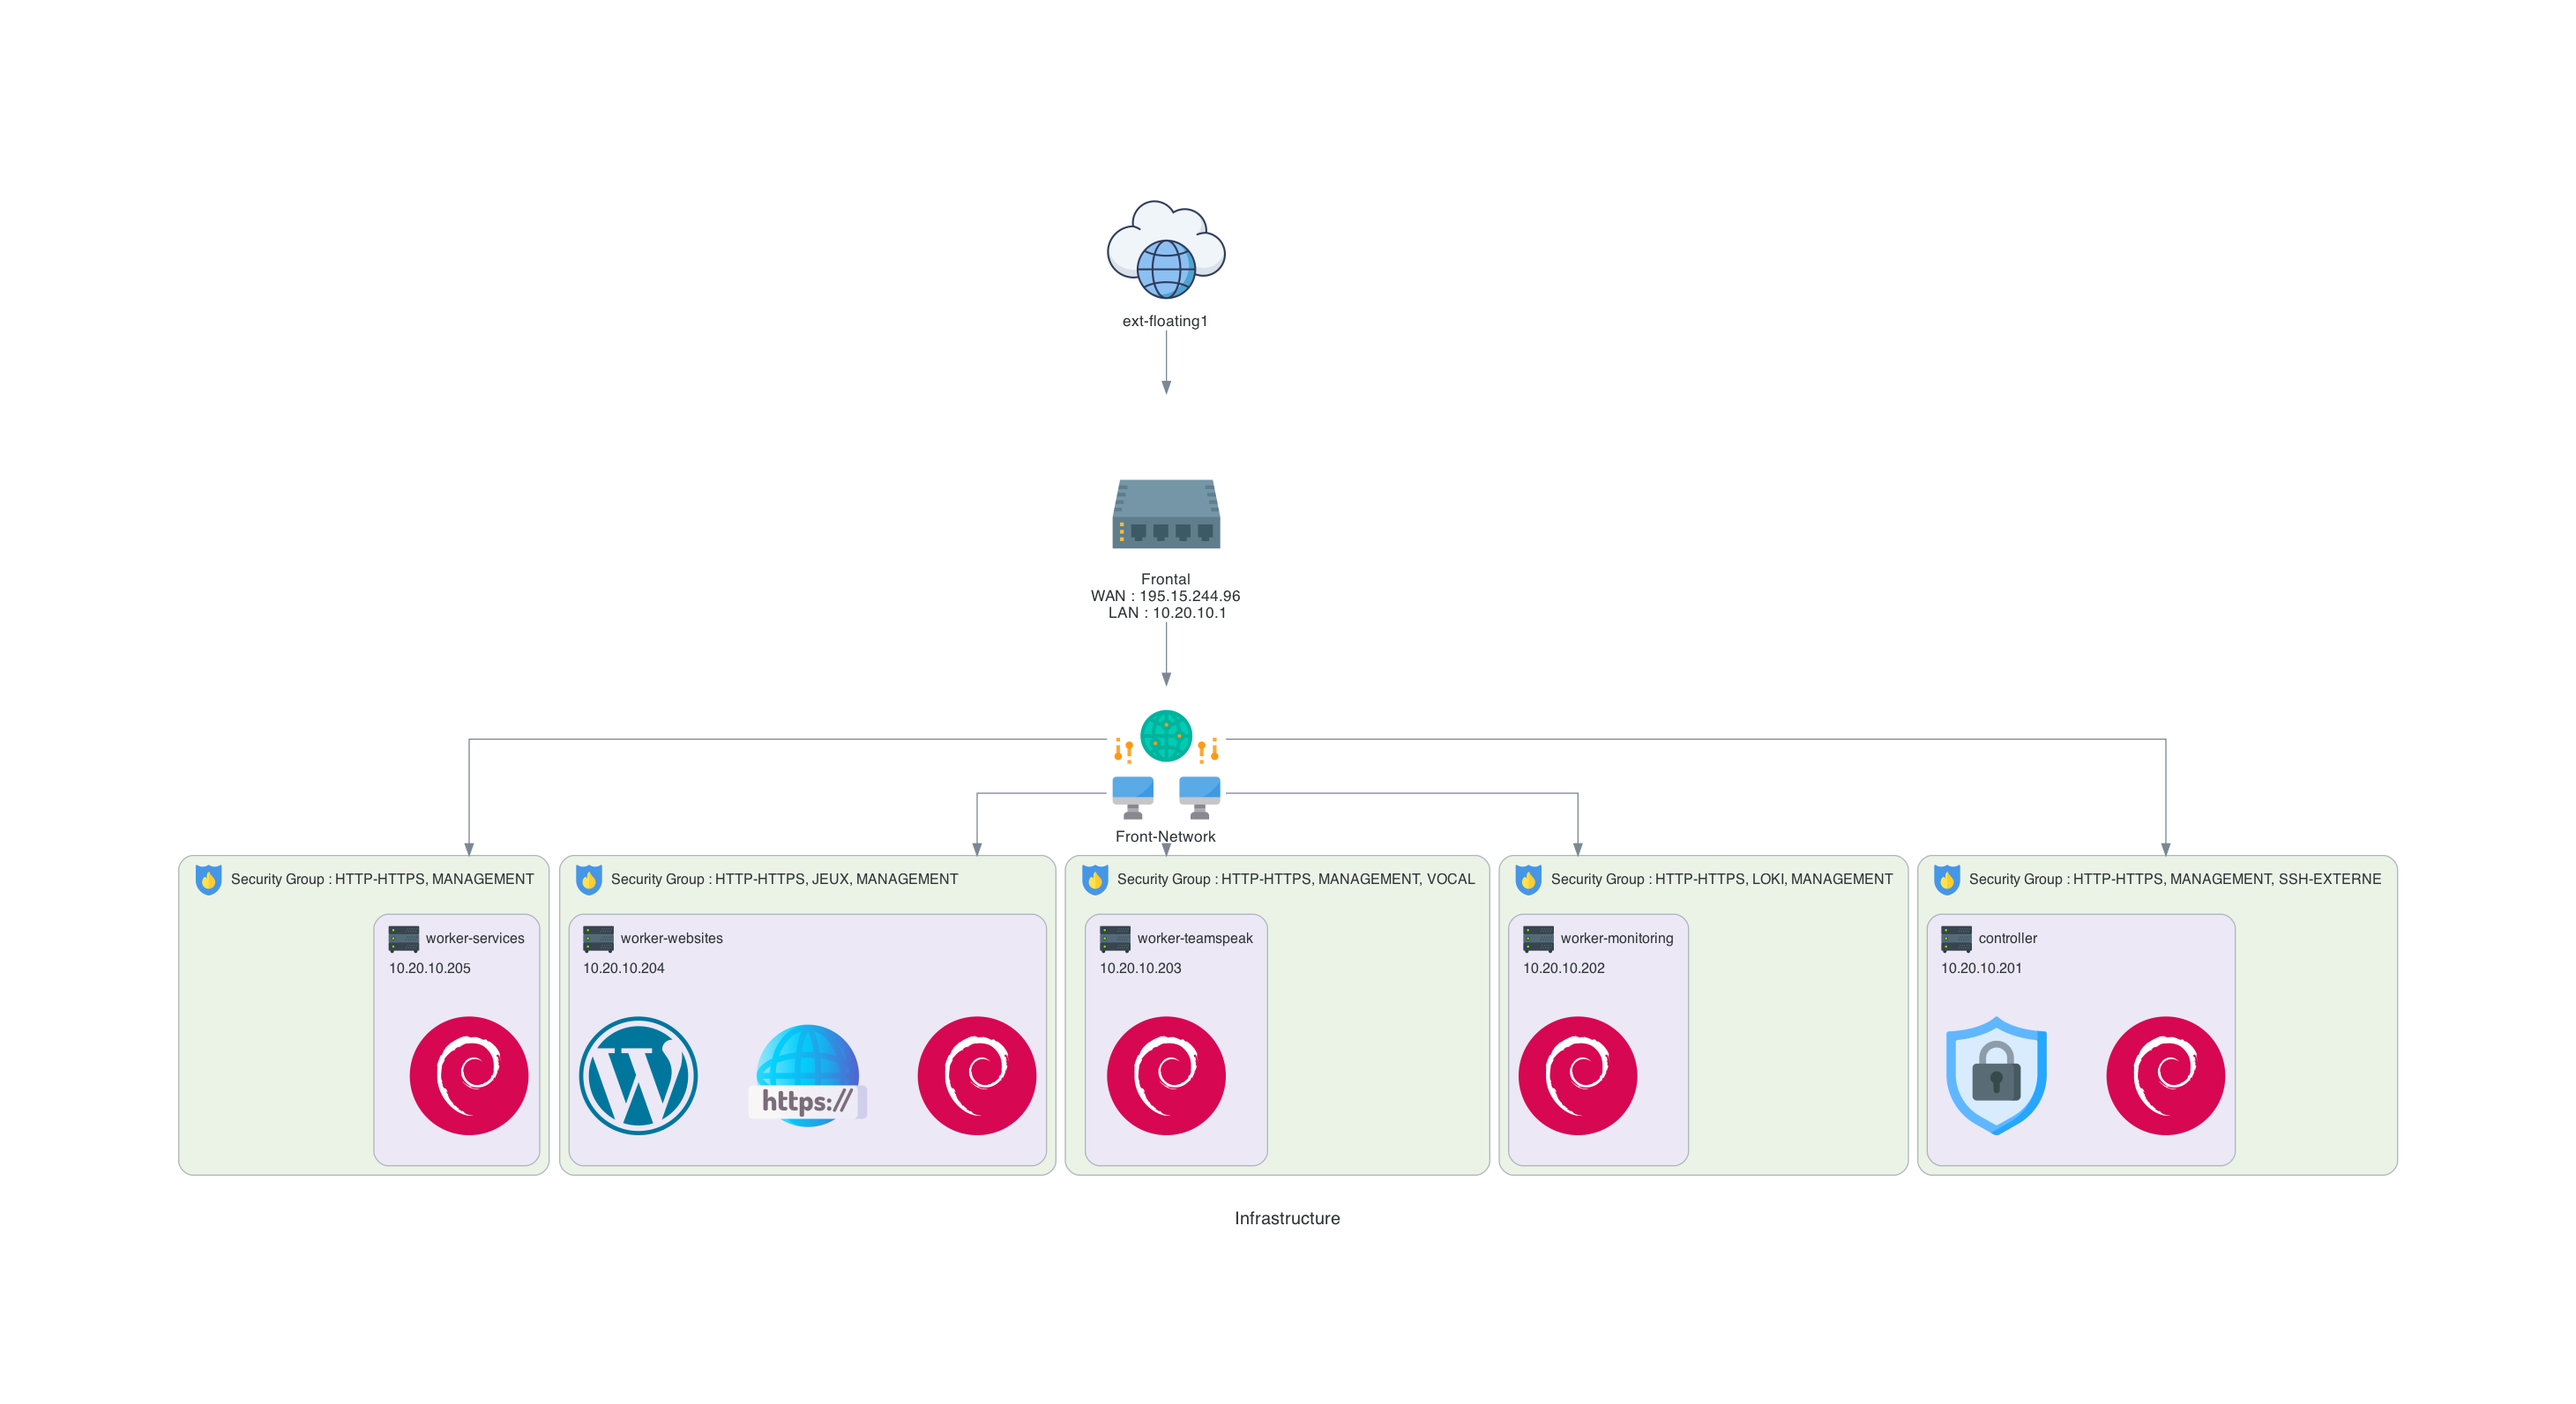
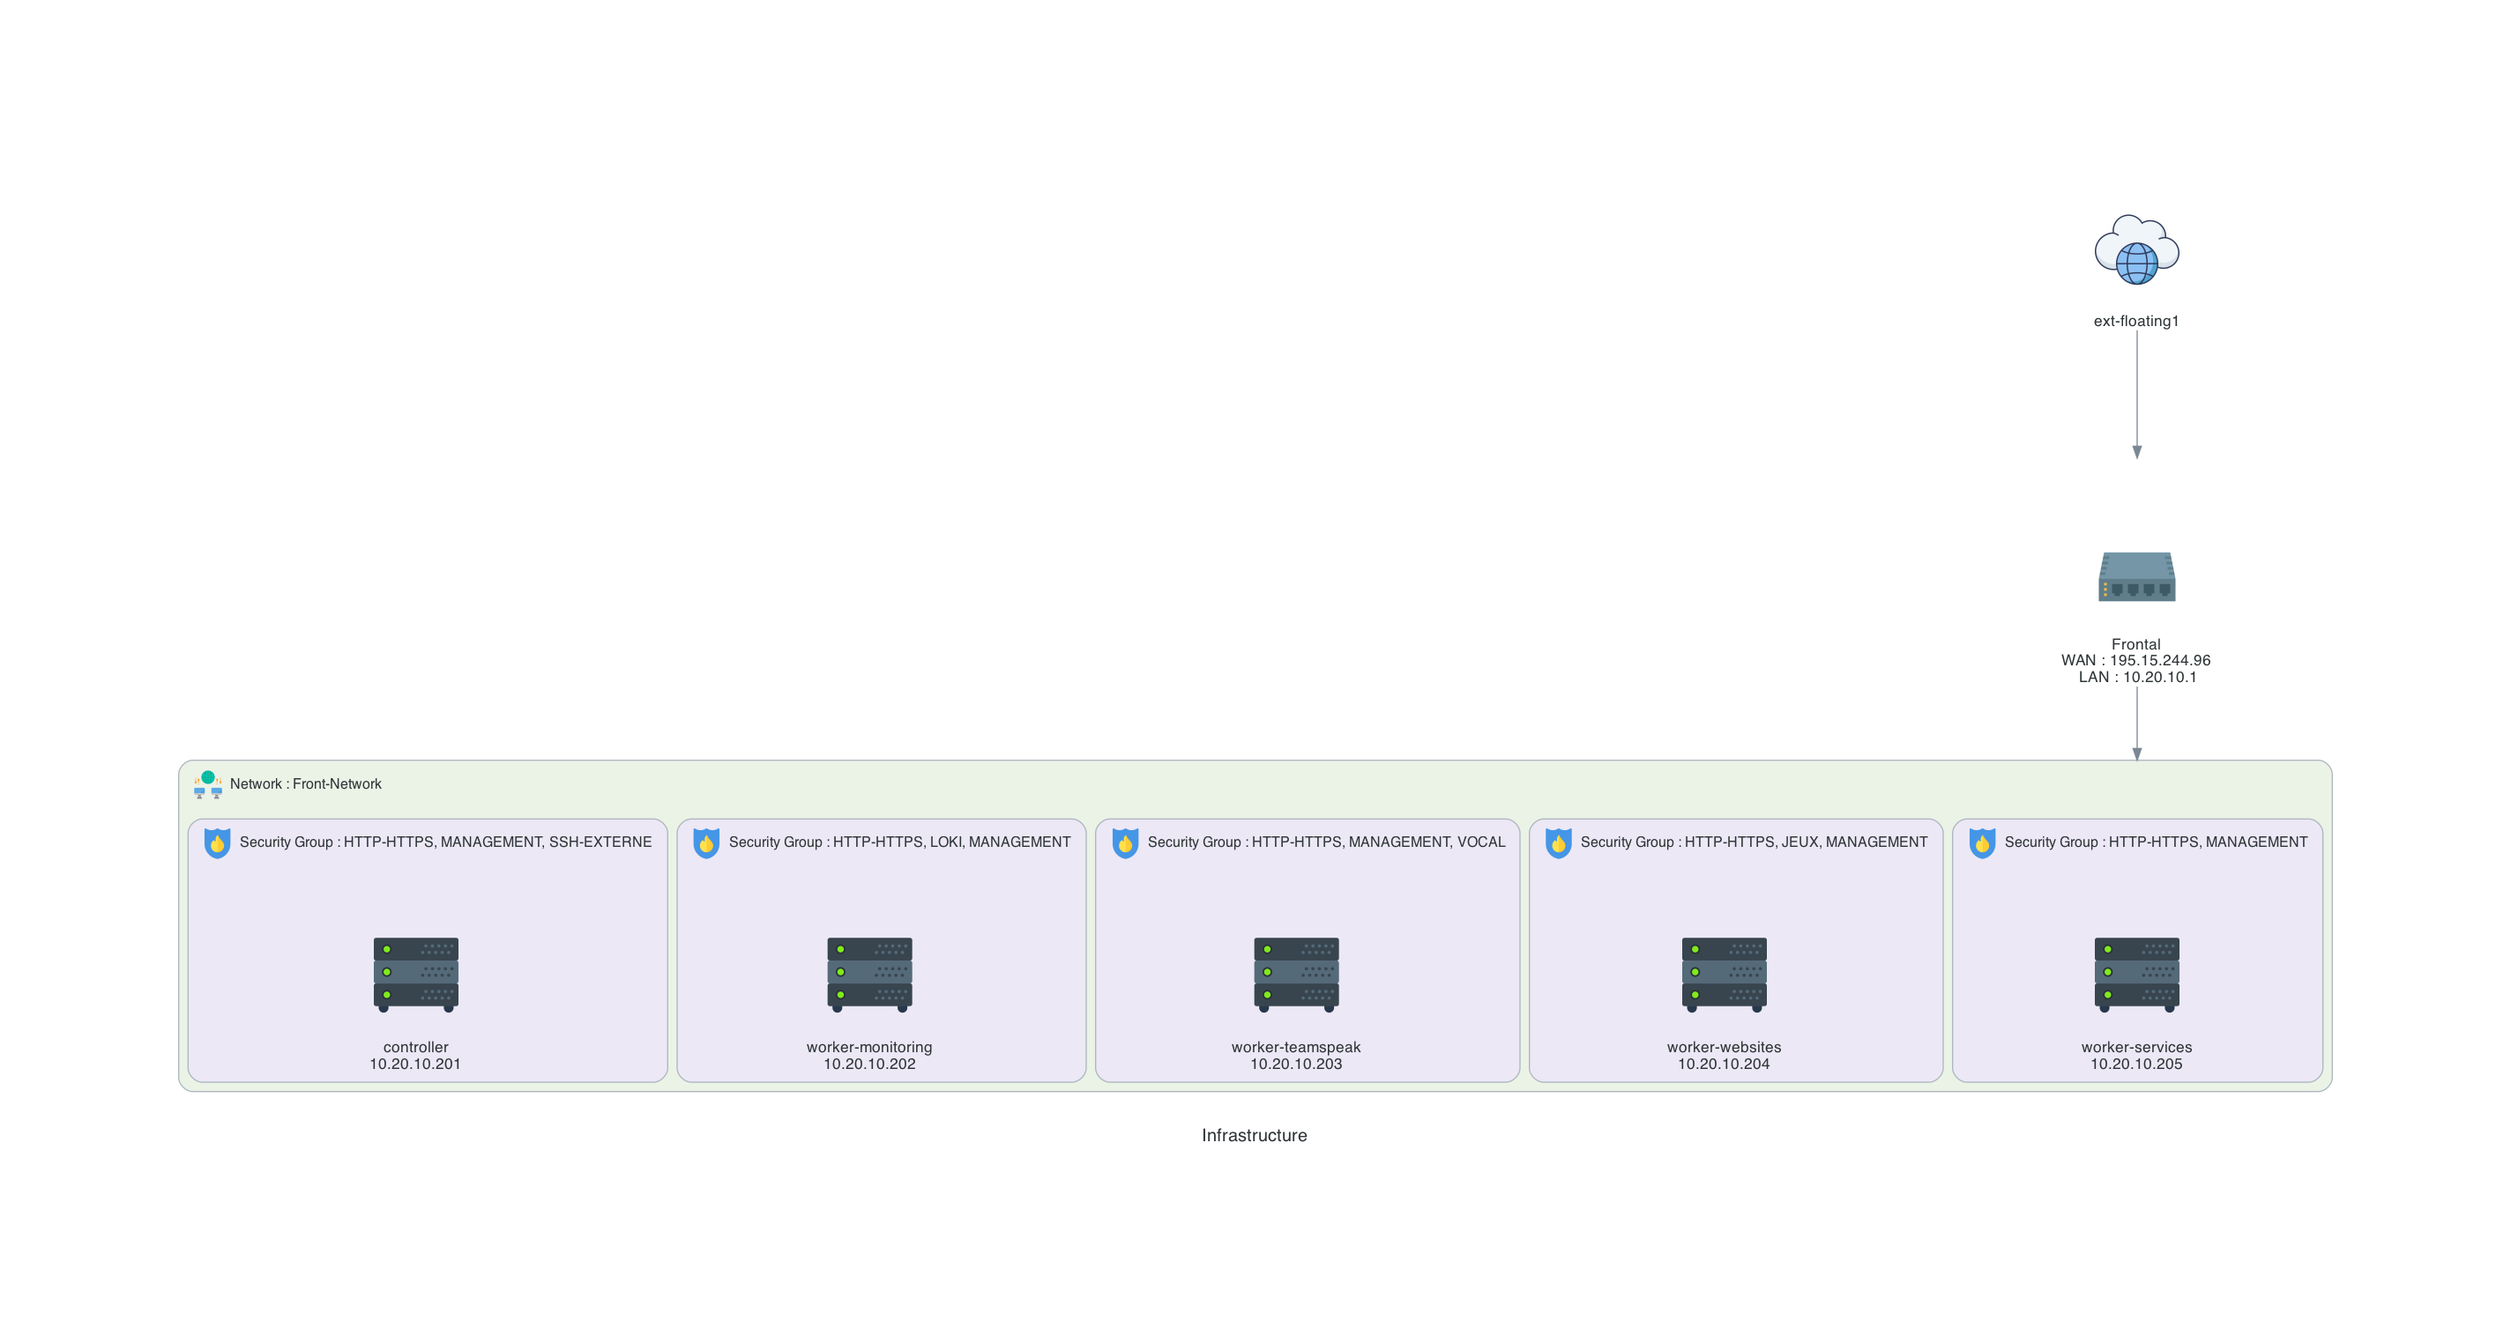
new network

diff --git a/app.py b/app.py
@@ -6,6 +6,7 @@ import openstack_api as oa
 from diagrams import Diagram, Cluster
 from diagrams.custom import Custom
 import argparse
+from os.path import exists
 
 parser = argparse.ArgumentParser(description='Create a graph of your OpenStack project.')
 parser.add_argument("--openrc", required=True, help='Link to your openrc file.')
@@ -20,48 +21,50 @@ routers = oa.list_router_v2(cloud)
 graph_attr = {
     "layout": "dot",
     "concentrate": "true",
-    "splines": "spline",
 }
 cluster_attr = {
-    "layout": "fdp",
-    "concentrate": "true",
-    "splines": "spline",
+    "layout": "dot",
 }
 tag_attr = {
-    "height": "4",
-    "width": "4",
+    "height": "1",
+    "width": "1",
 }
-with Diagram("\nInfrastructure", show=True, direction="TB") as diag:
+edge_attr = {
+    "minlen":"2",
+}
+with Diagram("\nInfrastructure", show=True, direction="TB", graph_attr=graph_attr, node_attr=tag_attr,edge_attr=edge_attr) as diag:
     for router in routers:
         networkwan = routers[router]['network_wan']
         img_router = Custom(
             f"{router}\n WAN : {routers[router]['ipwan']} \n LAN : {routers[router]['iplan']}", "./img/router.png")
         img_network_wan = Custom(f"{networkwan}", "./img/internet.png")
         networklan = routers[router]['network_lan']
-        img_network_lan = Custom(f"{networklan}", "./img/network.png")
 
         instances_net = []
-        for instance in instances:
-            # Instance per network
-            if (instances[instance]['Network'] == networklan):
-                sc = oa.list_sc_instance(cloud, instances[instance]['ID'])
-                scr = ""
-                for name in sc:
-                    if (scr == ""):
-                        scr = name
-                    else:
-                        scr = scr + ", " + name
-                with Custom(f"Security Group : {scr}", "./img/firewall.png") as img_instance:
-                    with Custom(f"{instance}\n{instances[instance]['IP']}", "./img/server.png"):
-                        if args.tags == True:
-                            for tag in instances[instance]['Tags']:
-                                if tag:
-                                    tags = img_tag = Custom(
-                                            f"", f"./img/technos/{tag}.png")
+        with Custom(f"Network : {networklan}", "./img/network.png") as img_network:
+            for instance in instances:
+                # Instance per network
+                if (instances[instance]['Network'] == networklan):
+                    sc = oa.list_sc_instance(cloud, instances[instance]['ID'])
+                    scr = ""
+                    for name in sc:
+                        if (scr == ""):
+                            scr = name
+                        else:
+                            scr = scr + ", " + name
+                    with Custom(f"Security Group : {scr}", "./img/firewall.png") as img_instance:
+                        with Custom(f"{instance}\n{instances[instance]['IP']}", "./img/server.png"):
+                            if args.tags == True:
+                                for tag in instances[instance]['Tags']:
+                                    if tag:
+                                        if exists(f"./img/technos/{tag}.png"):
+                                            tags = img_tag = Custom(
+                                                    f"", f"./img/technos/{tag}.png")
+
 
                 instances_net.append(img_instance)
         if instances_net:
-            img_network_wan >> img_router >> img_network_lan >> instances_net
+            img_network_wan >> img_router >> img_network
 
     instances_net = []
     for instance in instances:
